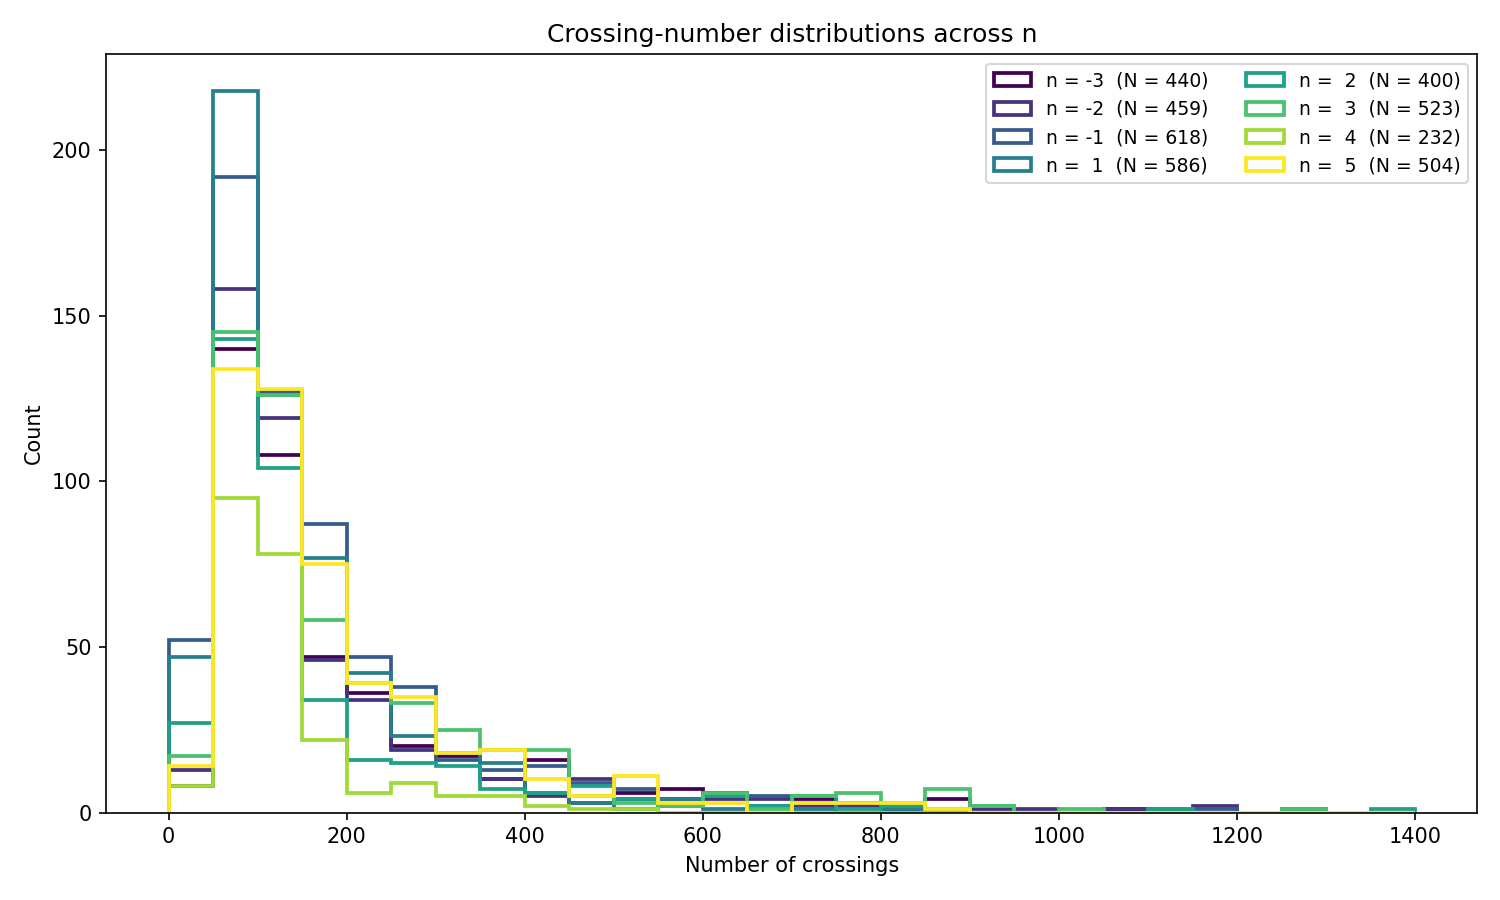
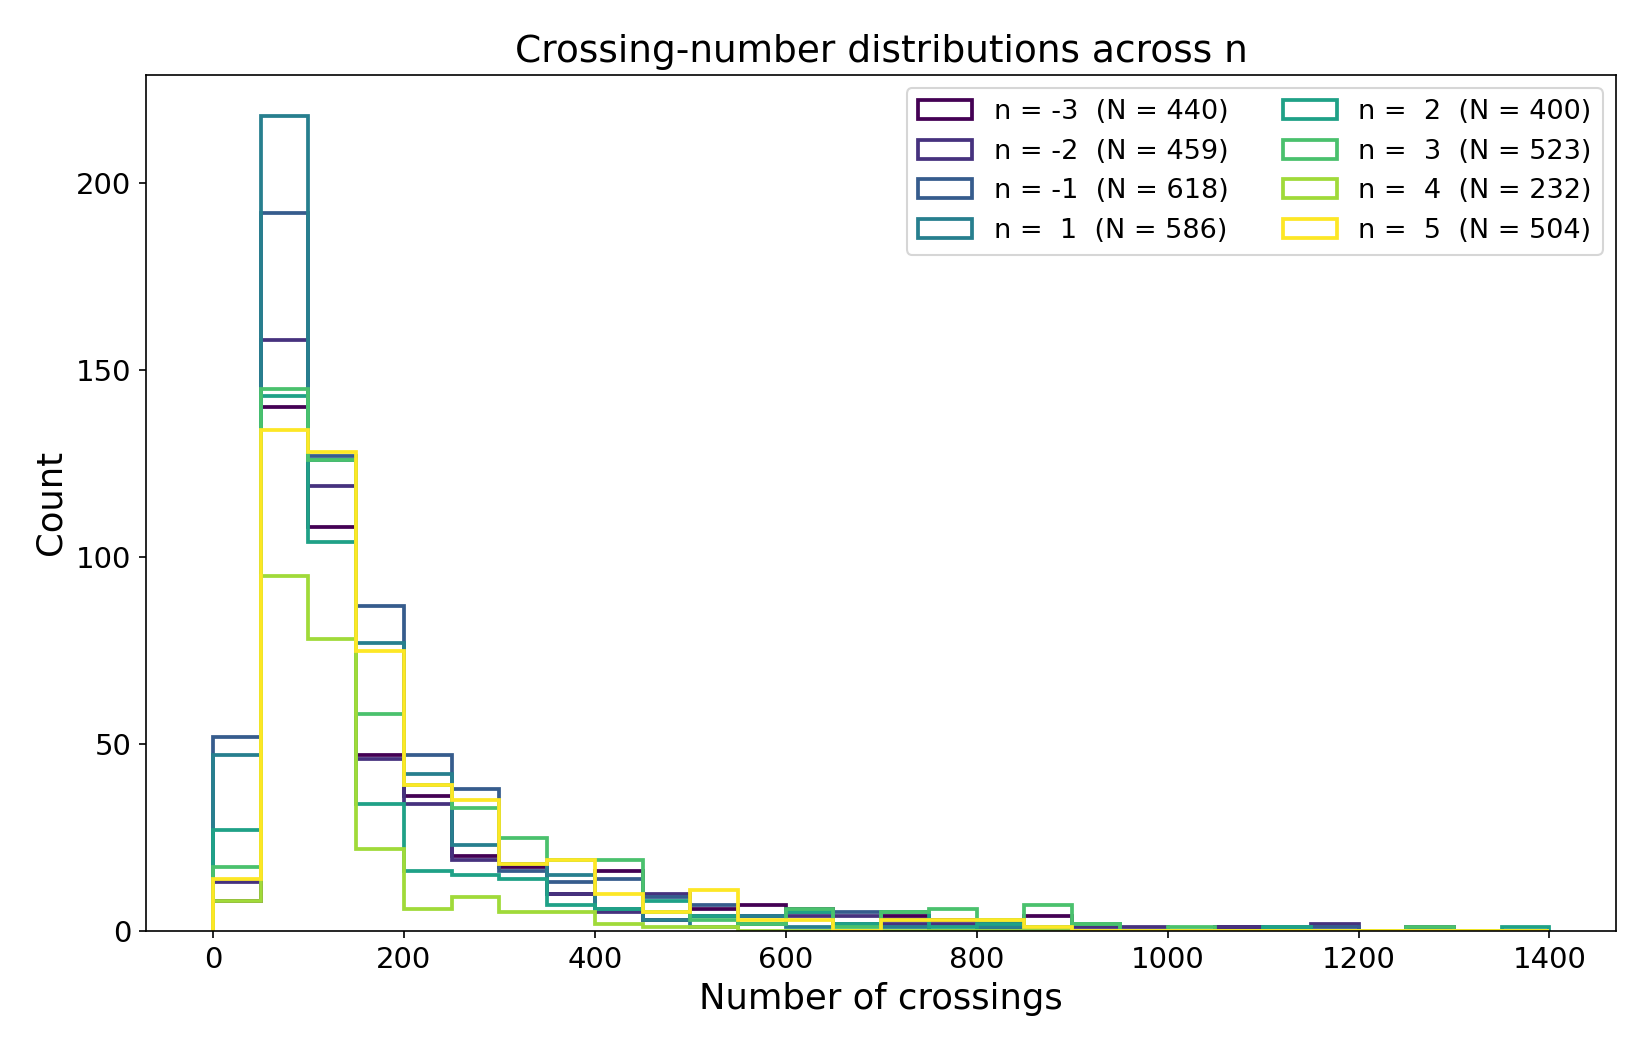
histograms updated

Changed region(s): [[0.0, 0.0311, 0.9813, 0.9644]]

diff --git a/Code/plot_n_friends_crossings.py b/Code/plot_n_friends_crossings.py
@@ -13,6 +13,16 @@ OUT_DIR = REPO_ROOT / "preliminary_results"
 N_VALUES = [-3, -2, -1, 1, 2, 3, 4, 5]
 BIN_WIDTH = 50
 
+plt.rcParams.update({
+    "font.size": 15,
+    "axes.titlesize": 18,
+    "axes.labelsize": 17,
+    "xtick.labelsize": 14,
+    "ytick.labelsize": 14,
+    "legend.fontsize": 14,
+    "figure.titlesize": 22,
+})
+
 
 def shared_bins(all_values: np.ndarray, width: int = BIN_WIDTH) -> np.ndarray:
     lo = int(np.floor(all_values.min() / width) * width)
@@ -24,7 +34,7 @@ def plot_histogram(values: np.ndarray, n: int, bins: np.ndarray, out_path: Path)
     q25, q50, q75 = np.percentile(values, [25, 50, 75])
     mean = values.mean()
 
-    fig, ax = plt.subplots(figsize=(9, 5.5))
+    fig, ax = plt.subplots(figsize=(10.5, 6.5))
     ax.hist(values, bins=bins, color="#4C72B0", edgecolor="white")
 
     marks = [
@@ -48,12 +58,12 @@ def plot_histogram(values: np.ndarray, n: int, bins: np.ndarray, out_path: Path)
 
 def plot_tiled(groups: dict[int, np.ndarray], bins: np.ndarray, out_path: Path) -> None:
     ns_sorted = sorted(groups)
-    ncols = 4
+    ncols = 2
     nrows = int(np.ceil(len(ns_sorted) / ncols))
 
     fig, axes = plt.subplots(
         nrows, ncols,
-        figsize=(4.2 * ncols, 3.2 * nrows),
+        figsize=(7.0 * ncols, 3.8 * nrows),
         sharex=True, sharey=True,
     )
     axes_flat = np.atleast_1d(axes).flatten()
@@ -75,7 +85,7 @@ def plot_tiled(groups: dict[int, np.ndarray], bins: np.ndarray, out_path: Path) 
         for (_, color, style), x in zip(mark_specs, stats):
             ax.axvline(x, color=color, linestyle=style, linewidth=1.4)
 
-        ax.set_title(f"n = {n}  (N = {len(vals)})", fontsize=11)
+        ax.set_title(f"n = {n}  (N = {len(vals)})", fontsize=17)
         stats_text = (
             f"25th = {q25:.1f}\n"
             f"med  = {q50:.1f}\n"
@@ -86,7 +96,7 @@ def plot_tiled(groups: dict[int, np.ndarray], bins: np.ndarray, out_path: Path) 
             0.98, 0.97, stats_text,
             transform=ax.transAxes,
             ha="right", va="top",
-            fontsize=8, family="monospace",
+            fontsize=13, family="monospace",
             bbox=dict(boxstyle="round,pad=0.3",
                       facecolor="white", edgecolor="0.7", alpha=0.85),
         )
@@ -96,12 +106,12 @@ def plot_tiled(groups: dict[int, np.ndarray], bins: np.ndarray, out_path: Path) 
         ax.set_visible(False)
 
     # Shared axis labels
-    fig.supxlabel("Number of crossings", y=0.06)
+    fig.supxlabel("Number of crossings", y=0.035)
     fig.supylabel("Count")
 
     # One legend for the marker line styles, below the shared x-axis label
     legend_handles = [
-        plt.Line2D([0], [0], color=color, linestyle=style, linewidth=1.6, label=label)
+        plt.Line2D([0], [0], color=color, linestyle=style, linewidth=2.2, label=label)
         for label, color, style in mark_specs
     ]
     fig.legend(
@@ -109,17 +119,17 @@ def plot_tiled(groups: dict[int, np.ndarray], bins: np.ndarray, out_path: Path) 
         loc="lower center",
         ncol=len(mark_specs),
         frameon=False,
-        bbox_to_anchor=(0.5, -0.02),
+        bbox_to_anchor=(0.5, -0.005),
     )
 
-    fig.suptitle("Number of crossings of n-friends", fontsize=14)
-    fig.tight_layout(rect=(0, 0.08, 1, 0.96))
+    fig.suptitle("Number of crossings of n-friends", fontsize=22)
+    fig.tight_layout(rect=(0, 0.055, 1, 0.975))
     fig.savefig(out_path, dpi=150, bbox_inches="tight")
     plt.close(fig)
 
 
 def plot_overlay(groups: dict[int, np.ndarray], bins: np.ndarray, out_path: Path) -> None:
-    fig, ax = plt.subplots(figsize=(10, 6))
+    fig, ax = plt.subplots(figsize=(11, 7))
     cmap = plt.get_cmap("viridis")
     ns_sorted = sorted(groups)
     for i, n in enumerate(ns_sorted):
@@ -135,7 +145,7 @@ def plot_overlay(groups: dict[int, np.ndarray], bins: np.ndarray, out_path: Path
     ax.set_xlabel("Number of crossings")
     ax.set_ylabel("Count")
     ax.set_title("Crossing-number distributions across n")
-    ax.legend(ncol=2, fontsize=9)
+    ax.legend(ncol=2, fontsize=13)
     fig.tight_layout()
     fig.savefig(out_path, dpi=150)
     plt.close(fig)
